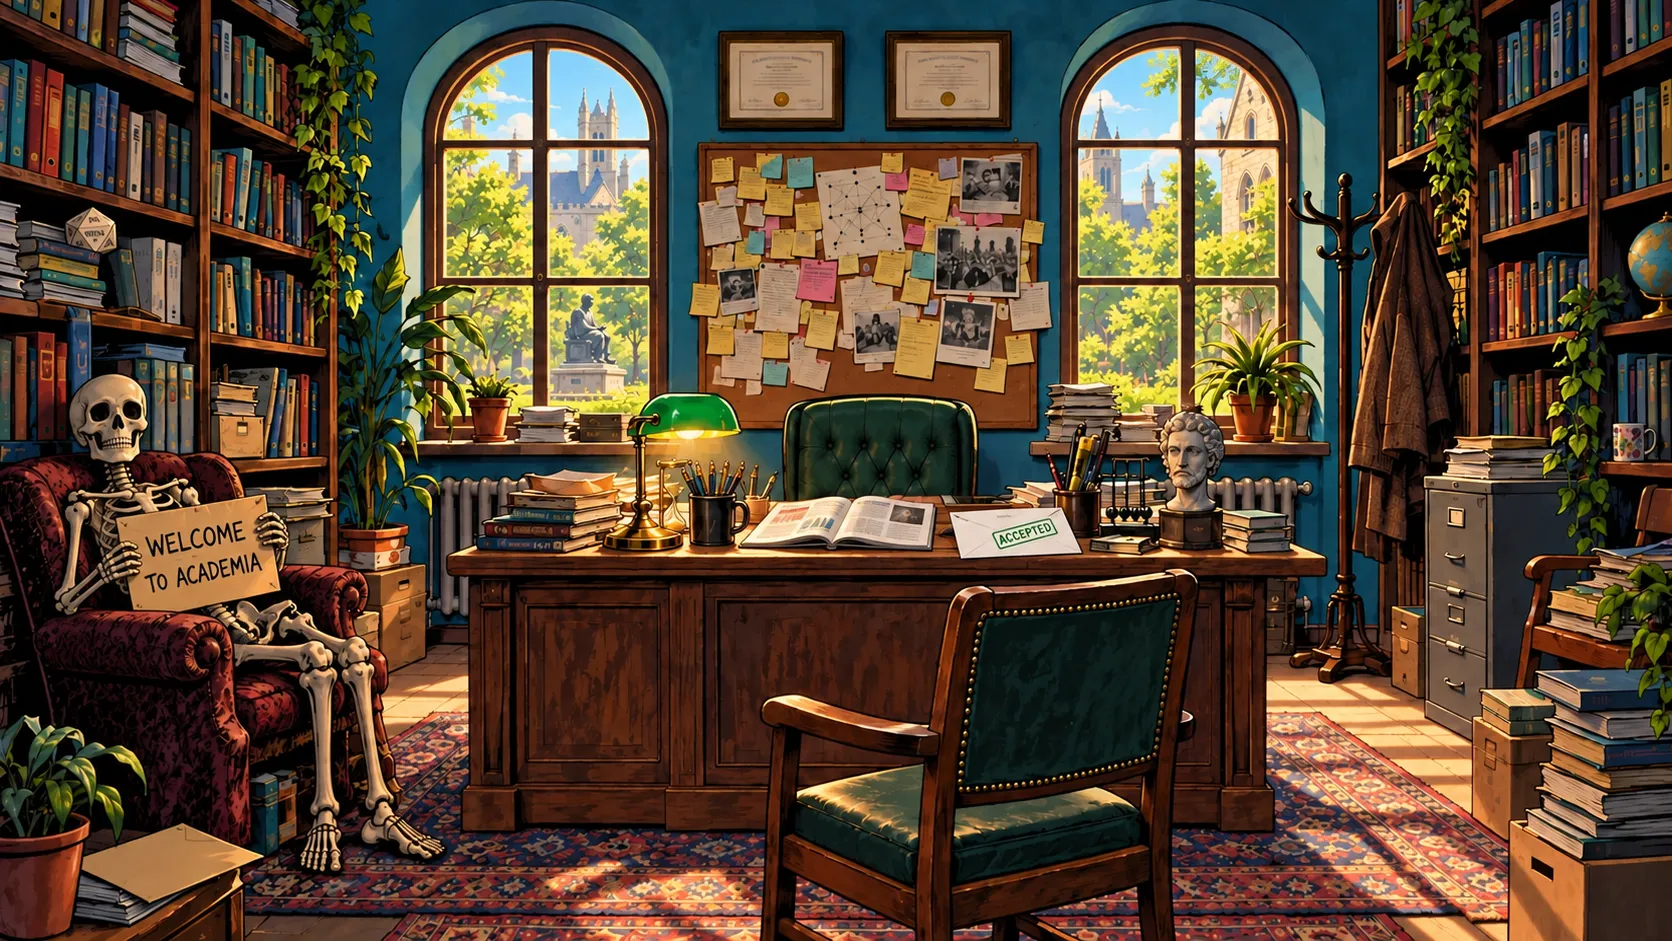
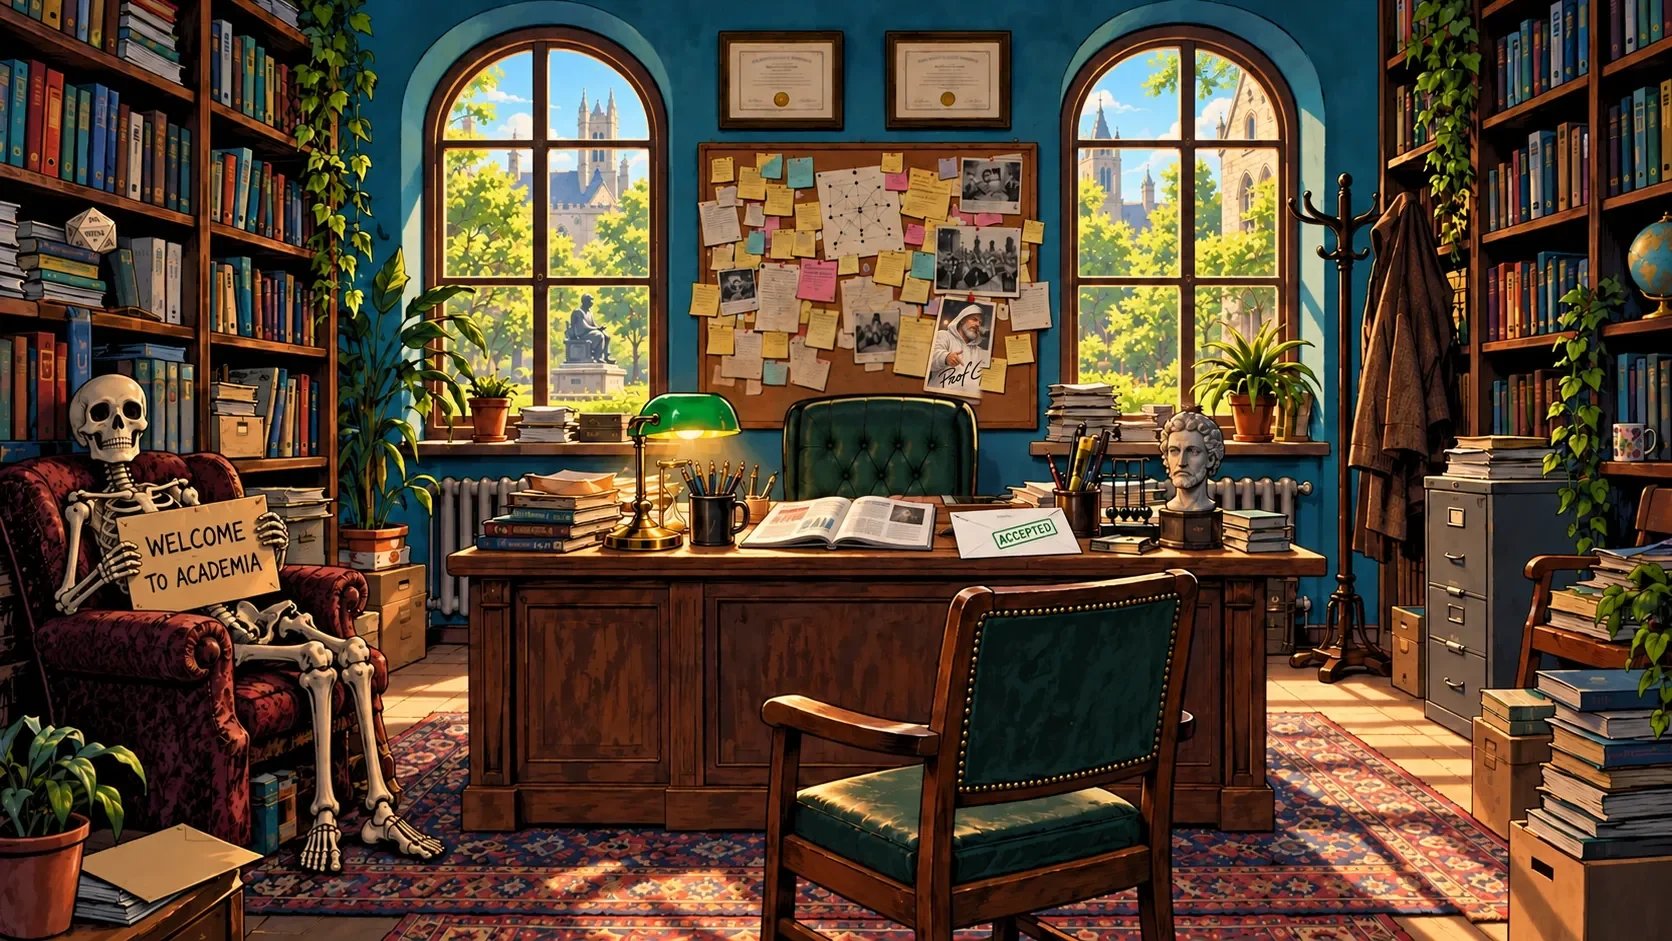
Monkey in a seat of the duel crowd, Prof G and the monkey on the outro corkboards, Chapter Three sign

Changed region(s): [[0.4354, 0.3082, 0.5909, 0.4315]]

diff --git a/web/duel/index.html b/web/duel/index.html
@@ -360,7 +360,7 @@
     </div>
     <div class="cone mespot" id="coneMe"></div>
     <img class="crowd" src="duel-crowd.webp" alt="" aria-hidden="true">
-    <img class="crowd-monkey" src="../sprite-monkey-audience.webp" alt="" aria-hidden="true">
+    <!-- (the monkey is painted into duel-crowd.webp now, in a seat of its own: author, 2026-10-02) -->
     <div class="me" id="me" aria-label="You, standing up in the audience"><div class="mycite" id="mycite">1 POSTER</div><img id="meImg" src="duel-player-down.webp" alt=""><span id="hand"></span></div>
     <svg class="beam" id="beam"><line id="beamLine" x1="0" y1="0" x2="0" y2="0" stroke-width="0"></line></svg>
     <div class="hud">

diff --git a/todo.md b/todo.md
@@ -12,17 +12,16 @@ Art sources are in `art/interludes/chapters/` and `art/characters/repaint/` (not
    hint, the hint is easier to see, and the duel is letterboxed to the window instead of cut off at the
    sides. **Re-test on the Mac**; if it still hangs, a screenshot plus Chrome's console (View > Developer >
    JavaScript Console) would show the cause.
-2. **Monkey in the duel crowd** (`web/duel/index.html`, `.crowd-monkey`): it should replace one
-   audience member, not sit between them. Plan: a ChatGPT edit of `web/duel/duel-crowd.webp` with
-   the person in the red beanie (middle row, left of centre) repainted as the monkey seen from
-   behind (references: `art/interludes/chapters/ref-duelcrowd.png`, `ref-monkey-back.png`), then
-   paste back only that patch and remove the separate `.crowd-monkey` image. The request was sent
-   but ChatGPT ran out of images; resend when the limit resets.
-3. Small: the Chapter Three painting (`il-ch3-complete.webp`) has a nonsense door sign on the far
-   right ("HALL NEED TO TAP IN"); repaint that corner if it bothers.
-4. **Outro office slides** (`outro-2-letter.webp`, `outro-3-accepted.webp`, Stellmacher's office): the
-   corkboard lacks the monkey and Prof G's photo that the in-game office has. Repaint those corners in
-   ChatGPT with the game's office background as reference, when the image limit resets.
+
+
+## Done (pushed 2026-10-02, evening)
+
+- **Duel crowd:** the monkey sits in a seat of its own (painted into `duel/duel-crowd.webp` in place of the
+  student in the red beanie); the separate monkey image is gone.
+- **Outro office slides:** the corkboard now matches the game's office, with the monkey photo and Prof G's
+  photo (copied from `office-bg-empty.webp`; on the months-later slide Prof G hangs a little further left,
+  beside the calendar).
+- **Chapter Three painting:** the far-right door sign reads I DON'T DO SURVEYS.
 
 ## Done (pushed 2026-10-02, later)
 
